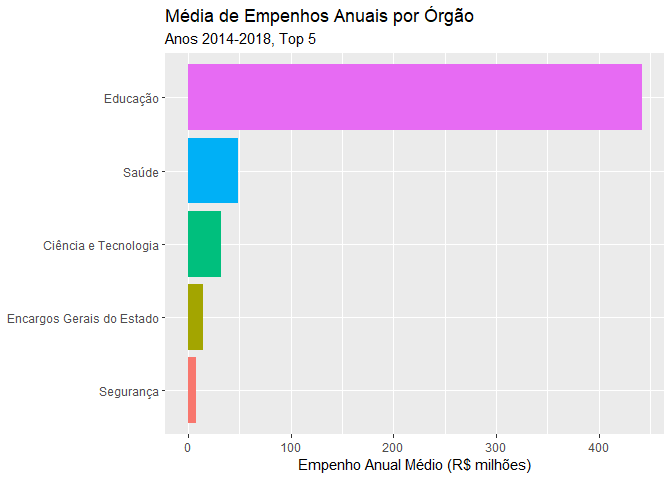
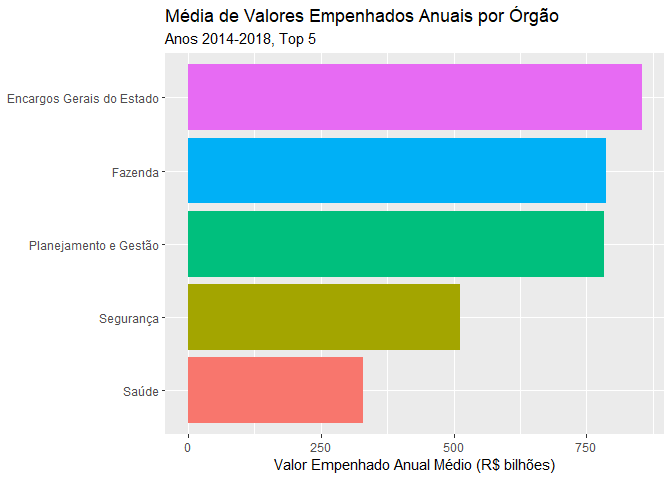
distribuicao do valor empenhado

diff --git a/empenho_anos.md b/empenho_anos.md
@@ -1,4 +1,4 @@
-Empenho: Série Histórica
+Análise do Valor Empenhado por Órgão, Anos 2014-2018
 ================
 
 Inclusão de pacotes
@@ -30,7 +30,8 @@ Cria tabela de referência p/ nomes de órgãos (usa o primeiro a aparecer)
 
 ``` r
 df_orgao_ref <- df_all %>%
-  rename(orgao_cod=`Órgão`,
+  rename(valor_empenhado=`Valor Empenhado`,
+         orgao_cod=`Órgão`,
          orgao=`Nome Órgão`) %>%
   mutate(orgao=orgao%>%as.character) %>% # era fatir
   group_by(orgao_cod) %>%
@@ -57,110 +58,100 @@ df_orgao_ref
     ## 10 13        " Agricultura e Pecuária"         
     ## # ... with 24 more rows
 
-Órgãos com maior empenho total (top 5)
+Órgãos com maior valor empenhado total (top 5)
 
 ``` r
 anos <- unique(df_all$ano%>%as.character)%>%as.integer
 
-df_all_top_orgaos_empenho <- df_all %>%
-  rename(orgao_cod=`Órgão`) %>%
+df_all_top_orgaos_valor_empenhado <- df_all %>%
+  rename(valor_empenhado=`Valor Empenhado`,
+         orgao_cod=`Órgão`) %>%
   group_by(orgao_cod) %>%
-  summarize(n=n(),total=sum(Empenho)) %>%
+  summarize(n=n(),
+            total=sum(valor_empenhado)) %>%
   arrange(desc(total)) %>%
   head(5) %>%
   inner_join(df_orgao_ref,by="orgao_cod") %>%
   select(orgao_cod,orgao_ref,everything()) %>%
-  mutate(media_anual=total/length(anos))
-df_all_top_orgaos_empenho
+  mutate(media_anual=total/length(anos)) %>%
+  mutate_at(vars(total,media_anual),~(./10^9)%>%as.integer) %>%
+  rename_at(vars(total,media_anual),~str_c(.,"_b")) # billions
+df_all_top_orgaos_valor_empenhado
 ```
 
     ## # A tibble: 5 x 5
-    ##   orgao_cod orgao_ref                      n      total media_anual
-    ##   <fct>     <chr>                      <int>      <dbl>       <dbl>
-    ## 1 18        " Educação"               155203 2208575029  441715006.
-    ## 2 29        " Saúde"                   77625  242259450   48451890 
-    ## 3 40        " Ciência e Tecnologia"    93202  161507216   32301443.
-    ## 4 37        Encargos Gerais do Estado  19223   72845941   14569188.
-    ## 5 26        " Segurança"               38427   39831177    7966235.
+    ##   orgao_cod orgao_ref                     n total_b media_anual_b
+    ##   <fct>     <chr>                     <int>   <int>         <int>
+    ## 1 37        Encargos Gerais do Estado 19223    4274           854
+    ## 2 20        " Fazenda"                13140    3940           788
+    ## 3 12        " Planejamento e Gestão"  12912    3917           783
+    ## 4 26        " Segurança"              38427    2569           513
+    ## 5 29        " Saúde"                  77625    1646           329
 
 Plota médias anuais
 
 ``` r
-df_all_top_orgaos_empenho%>%
+df_all_top_orgaos_valor_empenhado%>%
   mutate(orgao_ref=orgao_ref%>%fct_inorder()%>%fct_rev)%>%
-  ggplot(aes(orgao_ref,media_anual/10^6)) +
+  ggplot(aes(orgao_ref,media_anual_b)) +
   geom_col(aes(fill=orgao_ref)) +
   coord_flip() +
-  labs(title="Média de Empenhos Anuais por Órgão",
+  labs(title="Média de Valores Empenhados Anuais por Órgão",
        subtitle=sprintf("Anos %s-%s, Top 5", min(anos),max(anos)),
-       y="Empenho Anual Médio (R$ milhões)") +
+       y="Valor Empenhado Anual Médio (R$ bilhões)") +
   theme(legend.position = "none",
         axis.title.y=element_blank())
 ```
 
 ![](empenho_anos_files/figure-gfm/unnamed-chunk-5-1.png)<!-- -->
 
-Evolução história do empenho destes top órgãos:
+Evolução história dos Valores Empenhados destes top órgãos:
 
 ``` r
-df_all %>%
-  rename(orgao_cod=`Órgão`) %>%
-  inner_join(df_all_top_orgaos_empenho%>%
+df_hist <- df_all %>%
+  rename(valor_empenhado=`Valor Empenhado`,
+         orgao_cod=`Órgão`) %>%
+  inner_join(df_all_top_orgaos_valor_empenhado%>%
                select(orgao_cod,orgao=orgao_ref),
              by="orgao_cod") %>%
   group_by(ano,orgao) %>%
-  summarize(total=sum(Empenho)/10^6) %>%
-  arrange(desc(total)) %>%
-  mutate(orgao=orgao%>%fct_inorder) %>%
-  ggplot(aes(ano,total,group=orgao,color=orgao)) +
-  geom_line(size=I(1)) +
-  # scale_y_log10() +
-  labs(title="Empenho Anual por Órgão",
-       subtitle=sprintf("Anos %s-%s, Top 5", min(anos),max(anos)),
-       y = "Empenho Total (R$ milhões)")
+  summarize(total_b=sum(valor_empenhado)/10^9) %>%
+  arrange(desc(total_b)) %>%
+  ungroup() %>% # para q proxima linha rode corretamente
+  mutate(orgao=orgao%>%fct_inorder) #
 ```
 
-![](empenho_anos_files/figure-gfm/unnamed-chunk-6-1.png)<!-- -->
-
-Com log-scale:
+Grafa o histórico:
 
 ``` r
-df_all %>%
-  rename(orgao_cod=`Órgão`) %>%
-  inner_join(df_all_top_orgaos_empenho%>%
-               select(orgao_cod,orgao=orgao_ref),
-             by="orgao_cod") %>%
-  group_by(ano,orgao) %>%
-  summarize(total=sum(Empenho)/10^6) %>%
-  mutate(orgao=orgao%>%fct_reorder(total,sum)%>%fct_rev) %>%
-  ggplot(aes(ano,total,group=orgao,color=orgao)) +
+df_hist %>%
+  ggplot(aes(ano,total_b,group=orgao,color=orgao)) +
   geom_line(size=I(1)) +
-  scale_y_log10() +
-  labs(title="Empenho Anual por Órgão",
+  # scale_y_log10() +
+  labs(title="Valor Empenhado Anual por Órgão",
        subtitle=sprintf("Anos %s-%s, Top 5", min(anos),max(anos)),
-       y = "Empenho Total (R$ milhões)") +
-  theme(legend.position = "bottom",
-        legend.title = element_blank())
+       y = "Valor Empenhado Total (R$ bilhões)")
 ```
 
 ![](empenho_anos_files/figure-gfm/unnamed-chunk-7-1.png)<!-- -->
 
-Distribuição de empenho por ano (faceteamento)
+Distribuição de Valor Empenhado por ano (faceteamento)
 
 ``` r
 df_all %>%
-  rename(orgao_cod=`Órgão`) %>%
-  inner_join(df_all_top_orgaos_empenho%>%
+  rename(valor_empenhado=`Valor Empenhado`,
+         orgao_cod=`Órgão`) %>%
+  inner_join(df_all_top_orgaos_valor_empenhado%>%
                select(orgao_cod,orgao=orgao_ref),
              by="orgao_cod") %>%
-  mutate(orgao=orgao%>%fct_reorder(Empenho,sum)) %>%
-  ggplot(aes(orgao,Empenho)) +
+  mutate(orgao=orgao%>%fct_reorder(valor_empenhado,sum)) %>%
+  ggplot(aes(orgao,valor_empenhado+1)) +
   geom_boxplot(aes(fill=orgao),outlier.shape=NA) +
-  scale_y_log10(breaks=10^(1:5),labels=10^(1:5)%>%as.integer) +
-  coord_flip(ylim=c(10,.5*10^5)) +
+  scale_y_log10(breaks=10^c(0,3,6,9),labels=c("1","1k","1M","1B")) + #breaks=10^(1:5),labels=10^(1:5)%>%as.integer) +
+  coord_flip() + # ylim=c(10,.5*10^5)) +
   facet_wrap(~ano,ncol=2) +
-  labs(title="Distribuição do Empenho por Ano",
-       y = "Empenho Anual") +
+  labs(title="Distribuição do Valor Empenhado",
+       y = "Valor Empenhado Anual (R$)") +
   theme(legend.position = "none",
         axis.title.y=element_blank())
 ```

diff --git a/empenho.md b/empenho.md
@@ -1,4 +1,4 @@
-Execução Orçamentária: Análise do Valor Empenhado por Órgão
+Análise do Valor Empenhado por Órgão, Ano 2018
 ================
 
 Inclusão de pacotes
